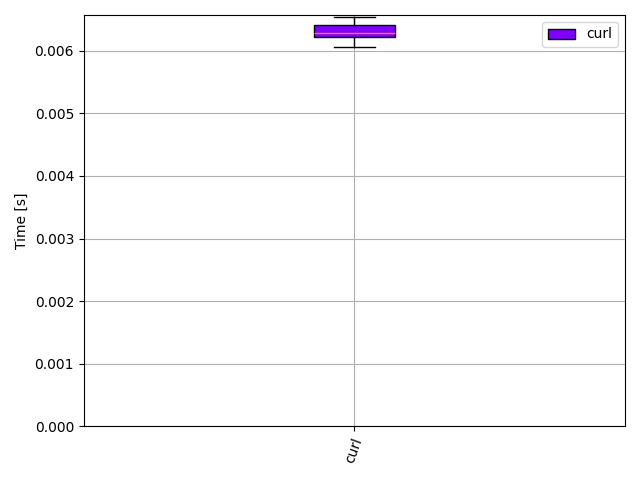
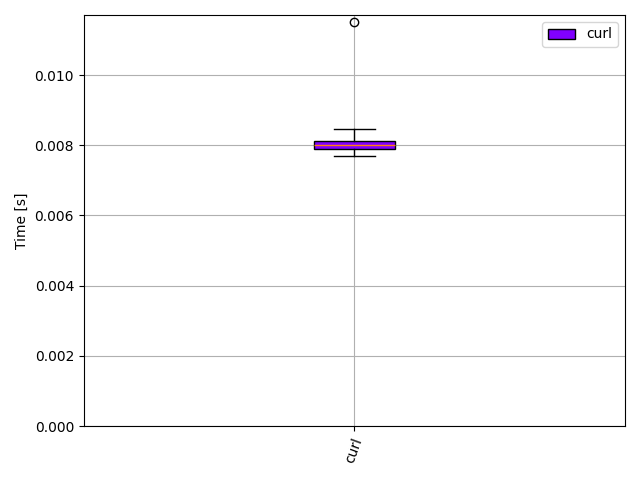
Update benchmarks

diff --git a/benchmarks.md b/benchmarks.md
@@ -1,3 +1,3 @@
 | Command | Mean [ms] | Min [ms] | Max [ms] | Relative |
 |:---|---:|---:|---:|---:|
-| `curl` | 6.3 ± 0.1 | 6.1 | 6.6 | 1.00 |
+| `curl` | 8.1 ± 0.4 | 7.7 | 11.5 | 1.00 |
